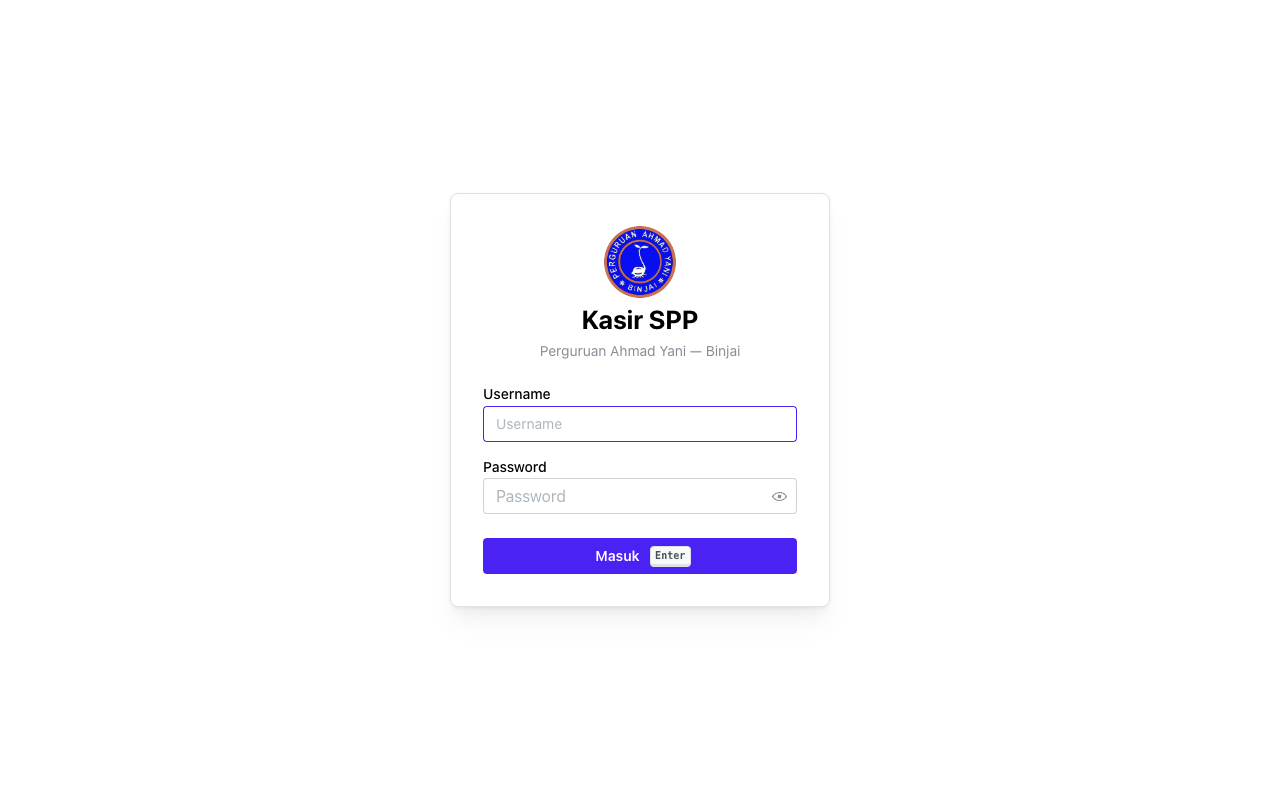
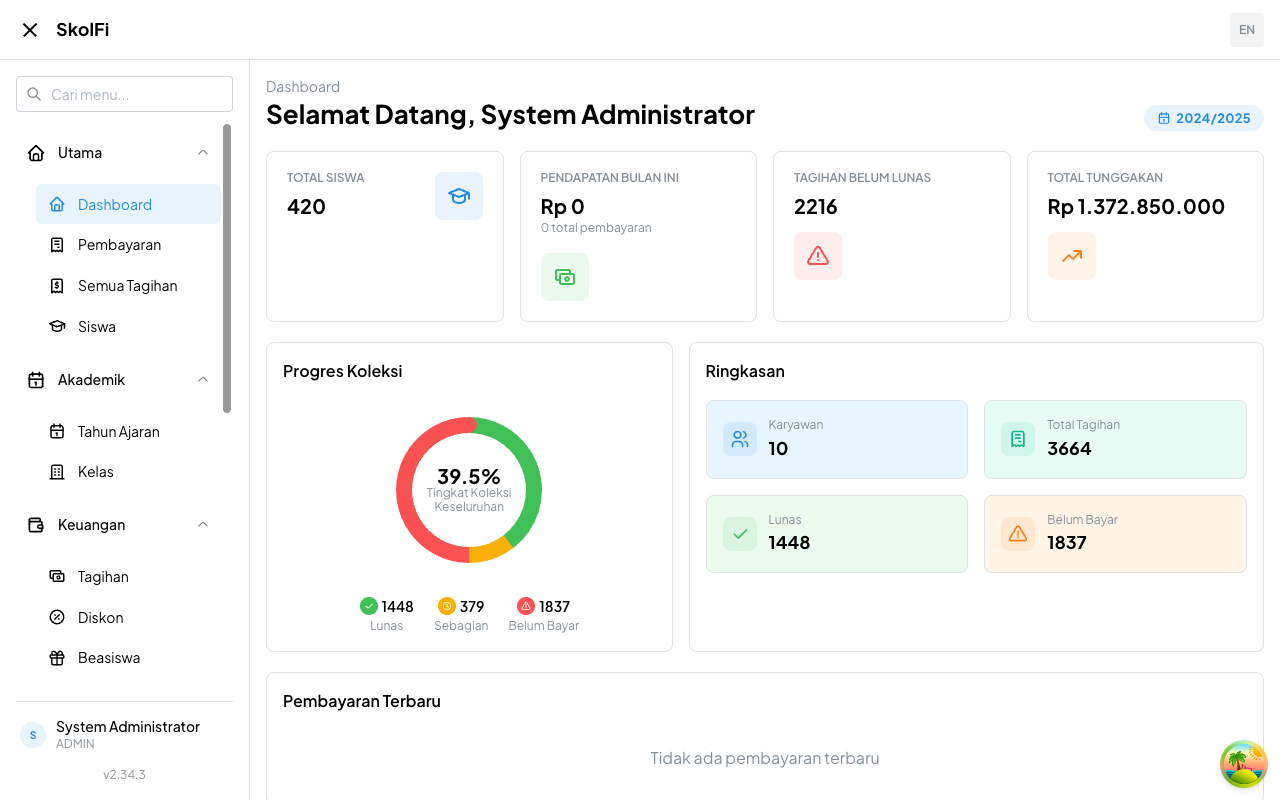
chore(portfolio): show SkolFi's dashboard instead of its login screen
The public URL only exposes a sign-in form, which told a prospect nothing
about the product. Captured the admin dashboard from a local run of the app
against a seeded database, at 1280x800 like the rest.

Claude-Session: https://claude.ai/code/session_01E5ECpsLji6Bu8WxK5YEmqG

diff --git a/lib/portfolio.ts b/lib/portfolio.ts
@@ -63,8 +63,8 @@ export const portfolioItems: PortfolioItem[] = [
     image: '/portfolio/bloom-well.png',
   },
   {
-    // The public URL lands on the sign-in screen (Kasir SPP), which is what
-    // the screenshot shows; the app itself sits behind school credentials.
+    // The public URL lands on a sign-in screen, so the screenshot is the
+    // admin dashboard captured from a local build with seeded data.
     name: 'SkolFi',
     url: 'https://skolfi.vercel.app/',
     category: 'School Tuition App',
